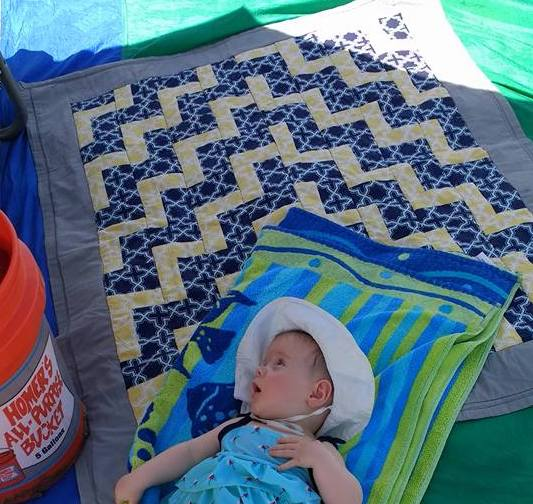
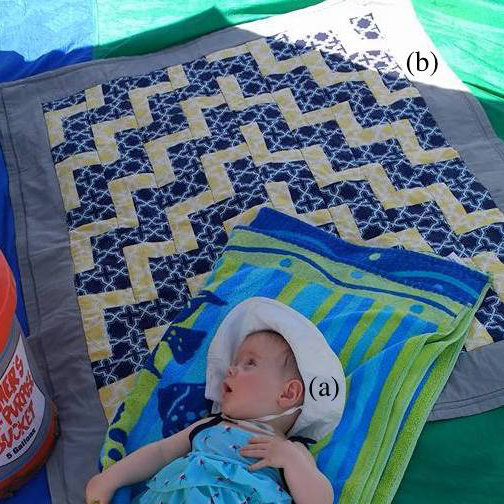
width fix

diff --git a/index.html b/index.html
@@ -133,6 +133,32 @@
 				<p>To learn more about my research, see my <a href="#projects">projects</a> and <a href="#publications">publications</a>. You can also view my <a href="CV2018.pdf" target="_blank">full CV</a>.</p>
 			</div>
 		</div>
+		<div class="row text-center">
+			<div class="col-md-12">
+				<button id="toggleHobbies" class="btn btn-lg btn-light">More About Me <span><i id="hobby-icon" class="fa fa-chevron-down"></i></span></button>
+		</div>
+		<div class="row text-left hobbyInfo" style="display:none; padding:15px">
+			<div class="col-md-4">
+				<p>I was born in New York City, and grew up in Chappaqua, NY. I moved to Scotland in 2007, and lived in Italy for three years (Rome 2013-2014; Turin 2015) before moving back to Edinburgh in the past couple years. I speak Italian, but my fluency is decreasing since I don't get to visit often (see Fig. 1).</p>
+				
+				<p>I have two small humans (e.g., Fig. 2a) and a human life-mate, with whom I spend most of my time. I like to draw/paint, quilt (e.g., Fig 2b), do cross-stitch, and many other crafty things. However, in practice, I don't have much time for crafting these days. I also love to read (mostly science fiction, post-apocalyptic preferred) and watch entirely too much TV.</p>
+
+			</div>
+			<div class="col-md-1">
+			</div>
+			<div class="col-md-7">
+				<div class="row">
+					<figure class="figure">
+  						<img src="img/italian.png" class="figure-img img-fluid rounded">
+  						<figcaption class="figure-caption"><em>Figure 1</em> Italian fluency over time (<em>n</em> = 1).</figcaption>
+					</figure>
+					<figure class="figure">
+  						<img src="img/hobbies.png" class="figure-img img-fluid rounded">
+  						<figcaption class="figure-caption"><em>Figure 2</em> Biological (a) and material crafts (b)</figcaption>
+					</figure>
+				</div>
+			</div>
+		</div>
 	</div>
 </section>
 
@@ -143,7 +169,7 @@
 	    <h2 class="text-center">Projects</h2>
 		<hr>
 		<div class="row center-block">
-			<div class="flip-container col-md-3" id="ssCard">
+			<div class="flip-container col-md-4" id="ssCard">
 				<div class="flipper">
 					<div class="front">
 						<div class="card projcard text-white" id="ssInfo">
@@ -173,7 +199,7 @@
 				</div>
 			</div>
 		   		
-		   	<div class="flip-container col-md-3" id="rdCard">
+		   	<div class="flip-container col-md-4" id="rdCard">
 				<div class="flipper">
 					<div class="front">
 						<div class="card projcard text-white" id="rdInfo">
@@ -203,7 +229,7 @@
 				</div>
 			</div>
 
-			<div class="flip-container col-md-3" id="egCard">
+			<div class="flip-container col-md-4" id="egCard">
 				<div class="flipper">
 					<div class="front">
 						<div class="card projcard text-white" id="egInfo">
@@ -233,6 +259,8 @@
 					</div>
 				</div>
 			</div>
+		</div>
+		<!--<div class="row text-center center-block" style="padding-top:20px">
 
 			<div class="flip-container col-md-3" id="hbCard">
 				<div class="flipper">
@@ -257,7 +285,7 @@
 						</div>
 					</div>
 				</div>
-			</div>
+			</div>-->
 			<!--<div class="card projcard text-white" id="ssInfo">
 				<div class="card-img-overlay" id="ssImage">
 					<h5 class="card-title projTitle text-center">Sound Symbolism</h5>

diff --git a/js/myjs.js b/js/myjs.js
@@ -236,6 +236,18 @@ $(document).ready(function() {
 	$(function () {
   		$('[data-toggle="tooltip"]').tooltip()
 	})
+	var hobbiesShowing=false;
+	$("#toggleHobbies").click(function() {
+		$(".hobbyInfo").slideToggle();
+		if (hobbiesShowing) {
+			$(this).removeClass('btn-default').addClass('btn-light')
+			hobbiesShowing=false;
+		} else {
+			$(this).removeClass('btn-light').addClass('btn-default')
+			hobbiesShowing=true;
+
+		}
+	})
 
 });
 
